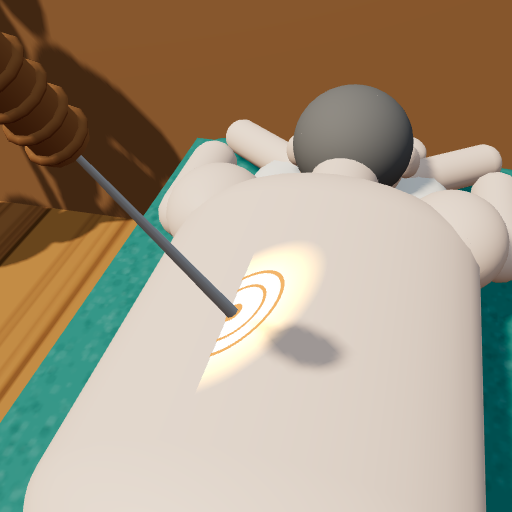
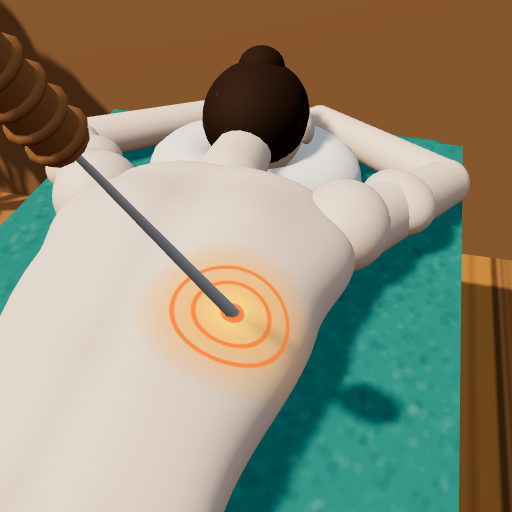
鍼ダーツ: 人の形を作り直し、ツボを背中に沿って貼る
Claude-Session: https://claude.ai/code/session_01AUjsMzF6U4XqxNxeU8f4QB

diff --git a/games/acupuncture-darts/index.html b/games/acupuncture-darts/index.html
@@ -75,13 +75,14 @@
   </div>
   <div id="controls"></div>
 
-  <script type="importmap">{ "imports": { "three": "https://cdn.jsdelivr.net/npm/three@0.160.0/build/three.module.js" } }</script>
+  <script type="importmap">{ "imports": { "three": "https://cdn.jsdelivr.net/npm/three@0.160.0/build/three.module.js", "three/addons/": "https://cdn.jsdelivr.net/npm/three@0.160.0/examples/jsm/" } }</script>
   <script>
     // CDN が読めないときの一言
     setTimeout(() => { if (!window.HARI_READY) { const m = document.getElementById('msg'); m.style.display = 'flex'; m.textContent = 'Failed to load. Please reload. / 読み込めませんでした。再読み込みしてください。'; } }, 8000);
   </script>
   <script type="module">
     import * as THREE from 'three';
+    import { DecalGeometry } from 'three/addons/geometries/DecalGeometry.js';
     window.HARI_READY = true;
 
     const SHARE_URL = 'https://keifurukawafunnych.com/games/acupuncture-darts/';
@@ -320,72 +321,130 @@
     const pat = new THREE.Group(); scene.add(pat);
     const breathe = new THREE.Group(); pat.add(breathe); // 呼吸で上下する部分
     let patMeshes = [], patient = null, headG = null;
+    // 表を滑らかにつなぐ（[t, 値] の並び）
+    const curve = tbl => t => {
+      let i = 0; while (i < tbl.length - 2 && t > tbl[i + 1][0]) i++;
+      const [t0, a] = tbl[i], [t1, b] = tbl[i + 1], k = THREE.MathUtils.clamp((t - t0) / (t1 - t0), 0, 1);
+      return a + (b - a) * (1 - Math.cos(k * Math.PI)) / 2;
+    };
+    // 寝かせた胴の形: z に沿って断面（上は背中のふくらみ、下は平ら）をつなぐ
+    function bodyGeo(z0, z1, W, Ht, Hb, bump) {
+      const N = 64, M = 48, p = [], idx = [];
+      for (let i = 0; i <= N; i++) {
+        const t = i / N, z = z0 + (z1 - z0) * t, w = W(t), ht = Ht(t), hb = Hb(t);
+        for (let j = 0; j <= M; j++) {
+          const a = -Math.PI + 2 * Math.PI * j / M, c = Math.cos(a), x = w * Math.sin(a);
+          let y = c > 0 ? ht * Math.pow(c, 0.8) : hb * c;
+          if (c > 0) y += bump(x, t) * c;
+          p.push(x, y, z);
+        }
+      }
+      for (let i = 0; i < N; i++) for (let j = 0; j < M; j++) { const a = i * (M + 1) + j, b = a + M + 1; idx.push(a, b, a + 1, b, b + 1, a + 1); }
+      const g = new THREE.BufferGeometry();
+      g.setAttribute('position', new THREE.Float32BufferAttribute(p, 3)); g.setIndex(idx); g.computeVertexNormals();
+      return g;
+    }
+    const gauss = (x, w) => Math.exp(-((x / w) ** 2));
+    // 2点の間に先細りの手足を置く
+    const up = new THREE.Vector3(0, 1, 0);
+    function limb(a, b, r0, r1, m, parent) {
+      const d = new THREE.Vector3().subVectors(b, a), L = d.length();
+      const o = new THREE.Mesh(new THREE.CylinderGeometry(r1, r0, L, 18), m);
+      o.position.copy(a).addScaledVector(d, 0.5); o.quaternion.setFromUnitVectors(up, d.normalize());
+      parent.add(o);
+      part(SPH, m, a.x, a.y, a.z, r0, r0, r0, parent); part(SPH, m, b.x, b.y, b.z, r1, r1, r1, parent);
+      return o;
+    }
+    const V = (x, y, z) => new THREE.Vector3(x, y, z);
     function makePatient() {
-      while (breathe.children.length) breathe.remove(breathe.children[0]);
+      while (breathe.children.length) { const c = breathe.children[0]; breathe.remove(c); }
       const skin = mat(pick(SKIN), 0.55);
       const hairM = mat(pick(HAIR), 0.8);
       const towelTex = canvasTex(128, 128, (c, w, h) => { c.fillStyle = pick(TOWEL); c.fillRect(0, 0, w, h); c.fillStyle = 'rgba(0,0,0,.08)'; for (let y = 0; y < h; y += 16) c.fillRect(0, y, w, 6); for (let i = 0; i < 1500; i++) { c.fillStyle = `rgba(255,255,255,${Math.random() * 0.25})`; c.fillRect(Math.random() * w, Math.random() * h, 1, 2); } });
       towelTex.wrapS = towelTex.wrapT = THREE.RepeatWrapping; towelTex.repeat.set(2, 3);
       const towel = new THREE.MeshStandardMaterial({ map: towelTex, roughness: 1 });
-      const Y = BED_Y + 0.01;
-      const back = []; // 背中として扱う部分
-      // 胴体: 肩の丸いカプセルを寝かせる
-      const torso = part(new THREE.CapsuleGeometry(0.17, 0.5, 10, 28), skin, 0, Y + 0.12, -0.45, 1.45, 1, 0.72, breathe); torso.rotation.x = Math.PI / 2; back.push(torso);
-      // 肩甲骨と背骨のくぼみ
-      for (const s of [-1, 1]) { const b = part(SPH, skin, s * 0.1, Y + 0.155, -0.66, 0.085, 0.05, 0.1, breathe); b.rotation.y = s * 0.3; back.push(b); }
-      for (const s of [-1, 1]) back.push(part(SPH, skin, s * 0.2, Y + 0.13, -0.78, 0.09, 0.08, 0.1, breathe)); // 肩
+      const Y = BED_Y + 0.005, build = rnd(0.92, 1.1); // 体格
+      const before = breathe.children.length;
+      // 胴: 首の付け根 → 肩 → わき → くびれ → 腰
+      const trunk = new THREE.Mesh(bodyGeo(-0.9, 0.08,
+        t => build * curve([[0, 0.07], [0.1, 0.2], [0.2, 0.245], [0.36, 0.215], [0.68, 0.165], [1, 0.19]])(t),
+        curve([[0, 0.05], [0.12, 0.095], [0.3, 0.115], [0.55, 0.095], [0.75, 0.075], [1, 0.1]]),
+        curve([[0, 0.05], [0.15, 0.075], [1, 0.07]]),
+        (x, t) => {
+          const z = -0.9 + 0.98 * t;
+          let b = -0.012 * gauss(x, 0.022) * curve([[0, 0], [0.2, 1], [0.9, 1], [1, 0.3]])(t); // 背骨のくぼみ
+          for (const s of [-1, 1]) b += 0.02 * gauss(x - s * 0.095, 0.055) * gauss(z + 0.66, 0.09); // 肩甲骨
+          return b;
+        }), skin);
+      trunk.position.y = Y + 0.07; breathe.add(trunk);
+      // 肩の丸み
+      for (const s of [-1, 1]) part(SPH, skin, s * 0.215 * build, Y + 0.085, -0.79, 0.075, 0.07, 0.085, breathe);
       // 首と頭（顔は枕の穴の中）
-      part(CYL, skin, 0, Y + 0.12, -0.92, 0.065, 0.12, 0.065, breathe).rotation.x = Math.PI / 2;
-      headG = new THREE.Group(); headG.position.set(0, Y + 0.13, -1.06); breathe.add(headG);
-      back.push(part(SPH, skin, 0, 0, 0, 0.11, 0.12, 0.13, headG));
-      const style = pick(['short', 'short', 'bun', 'bald']);
-      if (style !== 'bald') back.push(part(SPH, hairM, 0, 0.025, 0.012, 0.118, 0.11, 0.13, headG));
-      if (style === 'bun') back.push(part(SPH, hairM, 0, 0.11, -0.04, 0.055, 0.05, 0.055, headG));
-      for (const s of [-1, 1]) part(SPH, skin, s * 0.11, -0.01, 0, 0.025, 0.035, 0.02, headG);
-      // 腕: 枕を抱えるように前へ
+      limb(V(0, Y + 0.1, -0.86), V(0, Y + 0.1, -0.98), 0.06, 0.052, skin, breathe);
+      headG = new THREE.Group(); headG.position.set(0, Y + 0.11, -1.08); breathe.add(headG);
+      part(SPH, skin, 0, 0, 0, 0.095, 0.105, 0.12, headG);
+      part(SPH, skin, 0, -0.03, -0.06, 0.07, 0.07, 0.07, headG); // あご（下向き）
+      for (const s of [-1, 1]) { const e = part(SPH, skin, s * 0.097, -0.005, 0.0, 0.016, 0.03, 0.022, headG); e.rotation.y = s * 0.3; }
+      const style = pick(['short', 'short', 'bun', 'bald', 'crop']);
+      if (style !== 'bald') part(SPH, hairM, 0, 0.022, 0.012, 0.102, style === 'crop' ? 0.095 : 0.1, 0.125, headG);
+      if (style === 'bun') part(SPH, hairM, 0, 0.1, -0.03, 0.045, 0.04, 0.045, headG);
+      // 腕: 肩から外へ出して肘を曲げ、枕の前で手を重ねる
       for (const s of [-1, 1]) {
-        const up = part(new THREE.CapsuleGeometry(0.05, 0.2, 6, 14), skin, s * 0.27, Y + 0.08, -0.88, 1, 1, 1, breathe); up.rotation.set(Math.PI / 2, 0, 0); up.rotation.z = s * 0.0; up.position.set(s * 0.29, Y + 0.07, -0.95);
-        const fo = part(new THREE.CapsuleGeometry(0.042, 0.18, 6, 14), skin, s * 0.2, Y + 0.05, -1.17, 1, 1, 1, breathe); fo.rotation.set(Math.PI / 2, 0, s * 0.9);
-        part(SPH, skin, s * 0.1, Y + 0.05, -1.24, 0.05, 0.03, 0.06, breathe);
-        back.push(up, fo);
+        const sh = V(s * 0.23 * build, Y + 0.08, -0.79), el = V(s * 0.37, Y + 0.05, -1.03), hd = V(s * 0.1, Y + 0.05, -1.24);
+        limb(sh, el, 0.058, 0.045, skin, breathe);
+        part(SPH, skin, s * 0.29, Y + 0.075, -0.9, 0.06, 0.05, 0.075, breathe).rotation.y = s * 0.6; // 力こぶ側のふくらみ
+        limb(el, hd, 0.044, 0.034, skin, breathe);
+        const hand = part(SPH, skin, hd.x - s * 0.04, Y + 0.035, -1.27, 0.06, 0.022, 0.045, breathe); hand.rotation.y = s * 0.5;
+        part(SPH, skin, hd.x - s * 0.02, Y + 0.035, -1.22, 0.025, 0.017, 0.012, breathe).rotation.y = s * 1.1; // 親指
       }
-      // 腰から下はタオル
-      const tw = part(new THREE.CapsuleGeometry(0.18, 0.75, 8, 24), towel, 0, Y + 0.09, 0.35, 1.5, 1, 0.62, breathe); tw.rotation.x = Math.PI / 2; back.push(tw);
-      const hem = part(new THREE.CylinderGeometry(1, 1, 1, 28, 1, true), towel, 0, Y + 0.1, -0.03, 0.275, 0.05, 0.12, breathe); hem.rotation.x = Math.PI / 2;
-      // 足の裏
-      for (const s of [-1, 1]) { const f = part(SPH, skin, s * 0.09, Y + 0.08, 0.98, 0.05, 0.06, 0.04, breathe); back.push(f); }
+      // 腰から太ももはタオル（体に沿ってふくらむ）
+      const tw = new THREE.Mesh(bodyGeo(-0.06, 0.62,
+        t => build * curve([[0, 0.205], [0.25, 0.22], [0.6, 0.2], [1, 0.17]])(t),
+        curve([[0, 0.1], [0.22, 0.13], [0.45, 0.1], [1, 0.075]]),
+        () => 0.075,
+        (x, t) => -0.02 * gauss(x, 0.03) * curve([[0, 0.2], [0.3, 1], [1, 0.6]])(t)), towel);
+      tw.position.y = Y + 0.075; tw.scale.set(1.04, 1.04, 1); breathe.add(tw);
+      // ふくらはぎ・足首・足の裏
+      for (const s of [-1, 1]) {
+        const kn = V(s * 0.1, Y + 0.06, 0.55), an = V(s * 0.095, Y + 0.05, 0.93);
+        limb(kn, an, 0.058, 0.032, skin, breathe);
+        part(SPH, skin, s * 0.1, Y + 0.075, 0.68, 0.058, 0.05, 0.1, breathe); // ふくらはぎ
+        const foot = part(SPH, skin, s * 0.1, Y + 0.035, 0.98, 0.038, 0.035, 0.065, breathe); foot.rotation.x = 1.0;
+        part(SPH, skin, s * 0.1, Y + 0.075, 0.955, 0.033, 0.03, 0.03, breathe); // かかと
+      }
       shade(breathe);
-      patMeshes = back.concat(hem);
-      return { f0: pick([110, 125, 140, 200, 220, 240]) * rnd(0.92, 1.08), torso };
+      patMeshes = breathe.children.slice(before).flatMap(o => o.isMesh ? [o] : o.children.filter(m => m.isMesh));
+      return { f0: pick([110, 125, 140, 200, 220, 240]) * rnd(0.92, 1.08), torso: trunk };
     }
 
     // ---------- ツボ ----------
+    // 背中の形に沿って貼る（デカール）
     const TUBO_R = 0.075; // この中に刺されば点数
-    const tubo = new THREE.Group();
-    {
-      const glowTex = canvasTex(128, 128, (c, w, h) => { const g = c.createRadialGradient(64, 64, 0, 64, 64, 64); g.addColorStop(0, 'rgba(255,230,140,1)'); g.addColorStop(0.5, 'rgba(255,170,60,.55)'); g.addColorStop(1, 'rgba(255,140,40,0)'); c.fillStyle = g; c.fillRect(0, 0, w, h); });
-      const glow = new THREE.Mesh(new THREE.PlaneGeometry(TUBO_R * 3.2, TUBO_R * 3.2), new THREE.MeshBasicMaterial({ map: glowTex, transparent: true, depthWrite: false, blending: THREE.AdditiveBlending }));
-      tubo.add(glow); tubo.userData.glow = glow;
-      const ringM = new THREE.MeshBasicMaterial({ color: '#ff8a3a', transparent: true, opacity: 0.85, depthWrite: false });
-      for (const [r0, r1] of [[TUBO_R * 0.93, TUBO_R], [TUBO_R * 0.6, TUBO_R * 0.66], [0, TUBO_R * 0.2]]) { const m = new THREE.Mesh(new THREE.RingGeometry(r0, r1, 40), ringM); m.position.z = 0.0005; tubo.add(m); }
-      tubo.renderOrder = 2;
-    }
+    const tuboTex = canvasTex(256, 256, (c, w, h) => {
+      const g = c.createRadialGradient(128, 128, 0, 128, 128, 128); g.addColorStop(0, 'rgba(255,230,140,1)'); g.addColorStop(0.45, 'rgba(255,170,60,.5)'); g.addColorStop(1, 'rgba(255,140,40,0)');
+      c.fillStyle = g; c.fillRect(0, 0, w, h);
+      const R = 128 / 1.6; // テクスチャの半径に対するツボの半径
+      c.strokeStyle = '#ff7a2a'; c.lineWidth = 6; for (const r of [R * 0.965, R * 0.63]) { c.beginPath(); c.arc(128, 128, r, 0, 7); c.stroke(); }
+      c.fillStyle = '#ff7a2a'; c.beginPath(); c.arc(128, 128, R * 0.2, 0, 7); c.fill();
+    });
+    const tuboMat = new THREE.MeshBasicMaterial({ map: tuboTex, transparent: true, depthWrite: false, polygonOffset: true, polygonOffsetFactor: -4, toneMapped: false });
+    let tubo = new THREE.Object3D();
     const tuboLocal = new THREE.Vector3(), tuboWorld = new THREE.Vector3();
     function placeTubo() {
-      // 背中のどこかを上から探る
+      // 背中のどこかを上から探る（呼吸の動きは止めた状態で作る）
       const rc = new THREE.Raycaster();
       breathe.updateMatrixWorld(true);
-      for (let k = 0; k < 20; k++) {
-        const x = rnd(-0.13, 0.13), z = rnd(-0.72, -0.15);
+      for (let k = 0; k < 30; k++) {
+        const x = rnd(-0.13, 0.13), z = rnd(-0.72, -0.12);
         rc.set(new THREE.Vector3(x, 2, z), new THREE.Vector3(0, -1, 0));
         const h = rc.intersectObject(patient.torso, false)[0];
         if (!h) continue;
         const n = h.face.normal.clone().transformDirection(h.object.matrixWorld);
-        tuboLocal.copy(breathe.worldToLocal(h.point.clone().addScaledVector(n, 0.003)));
-        tubo.position.copy(tuboLocal);
-        tubo.lookAt(breathe.localToWorld(tuboLocal.clone().add(n)));
-        tubo.quaternion.premultiply(new THREE.Quaternion()); // breathe は回転しないので世界の向きのままでよい
-        breathe.add(tubo);
+        const o = new THREE.Object3D(); o.position.copy(h.point); o.lookAt(h.point.clone().add(n));
+        tubo = new THREE.Mesh(new DecalGeometry(patient.torso, h.point, o.rotation, new THREE.Vector3(TUBO_R * 3.2, TUBO_R * 3.2, 0.12)), tuboMat);
+        tubo.renderOrder = 2;
+        breathe.add(tubo); // breathe は動いていない（原点）ので、そのまま子にできる
+        tuboLocal.copy(breathe.worldToLocal(h.point.clone()));
         return;
       }
     }
@@ -532,7 +591,7 @@
       state = 'stuck'; endT = 0;
       if (onBody) {
         breathe.updateMatrixWorld(true);
-        tubo.getWorldPosition(tuboWorld);
+        tuboWorld.copy(breathe.localToWorld(tuboLocal.clone()));
         const d = hit.point.distanceTo(tuboWorld);
         score = d < TUBO_R ? Math.max(1, Math.round(100 * (1 - d / TUBO_R) ** 0.8)) : 0;
         thunk(false);
@@ -567,7 +626,7 @@
       if (jumpV || jump) { jumpV -= dt * 9; jump = Math.max(0, jump + jumpV * dt); if (jump === 0 && jumpV < 0) jumpV = 0; }
       shake = Math.max(0, shake - dt * 2.5);
       const pulse = 1 + Math.sin(clock * 5) * 0.12;
-      tubo.userData.glow.scale.setScalar(pulse);
+      tuboMat.opacity = 0.8 + (pulse - 1) * 1.6;
       if (headG) headG.rotation.z = outcome === 'bliss' ? Math.min(0.35, endT * 0.5) : 0;
 
       if (state === 'fly') {
@@ -623,7 +682,7 @@
     let snap = null, shareCache = null, needSnap = false;
     function takeSnap() {
       const src = renderer.domElement;
-      const f = (outcome === 'miss' ? tuboWorld.copy(tubo.getWorldPosition(new THREE.Vector3())) : hitPoint).clone().project(camera);
+      const f = (outcome === 'miss' ? breathe.localToWorld(tuboWorld.copy(tuboLocal)) : hitPoint).clone().project(camera);
       const fx2 = (f.x + 1) / 2 * src.width, fy = (1 - f.y) / 2 * src.height;
       const side = Math.min(src.width, src.height) * 0.8;
       const sx = THREE.MathUtils.clamp(fx2 - side / 2, 0, src.width - side), sy = THREE.MathUtils.clamp(fy - side * 0.6, 0, src.height - side);
@@ -703,7 +762,7 @@
     }
 
     // テスト用（自動確認から呼べるように）
-    window.__hari = { throwNeedle, THREE, camera, renderer, scene, needle, tubo, get state() { return state; }, get score() { return score; }, get outcome() { return outcome; } };
+    window.__hari = { throwNeedle, THREE, camera, renderer, scene, needle, get tubo() { return breathe.localToWorld(tuboLocal.clone()); }, get state() { return state; }, get score() { return score; }, get outcome() { return outcome; } };
     resize();
     start();
     applyLang();
